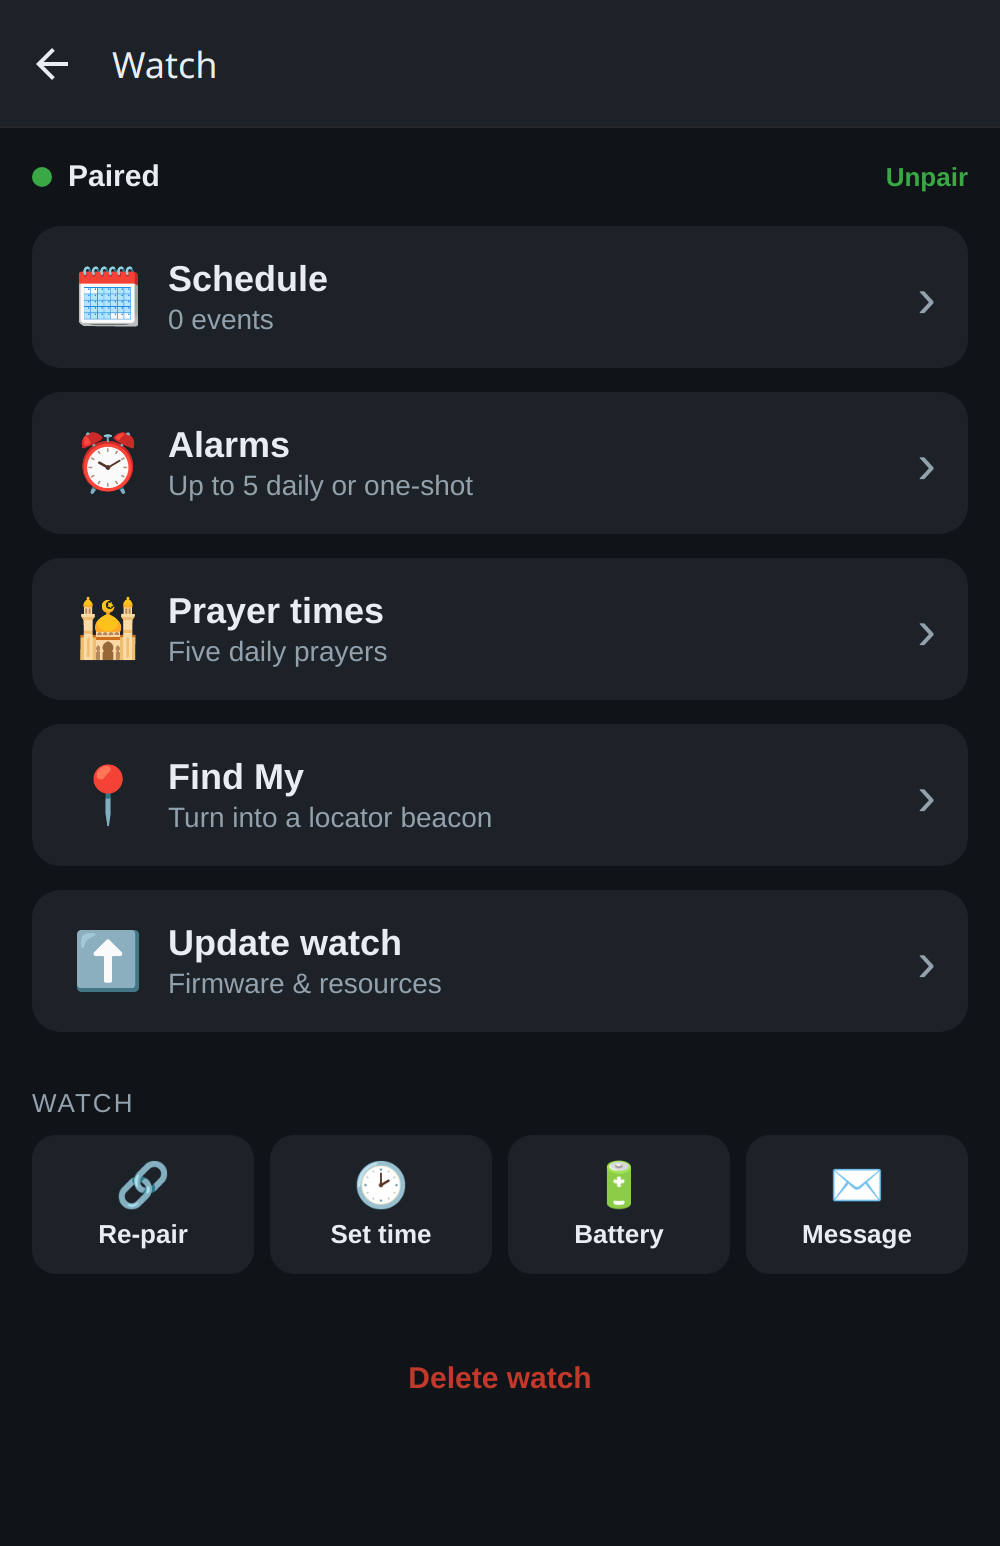
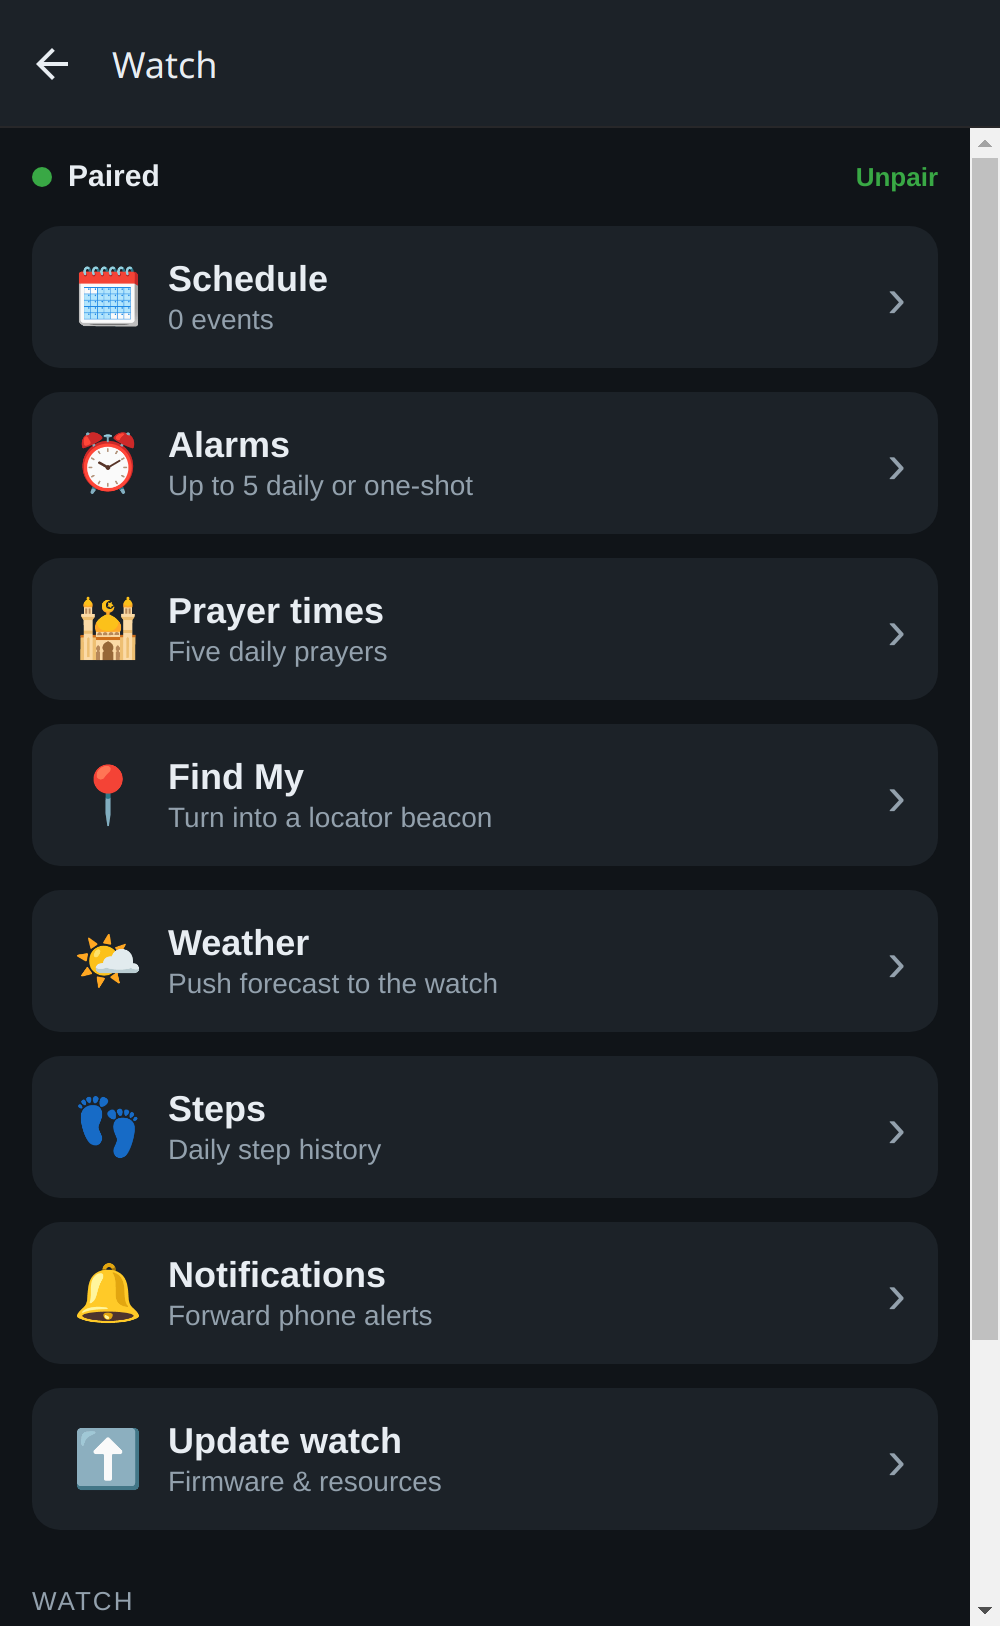
docs: update feature guide for weather, steps, forwarding + music
The guide was four features behind. Adds/updates:
- Weather + Step history as flagship features (watch app + companion screen
  each): Open-Meteo forecast push, and the 14-day on-phone step chart with the
  yesterday backfill.
- Reworks the notifications section into two pages: 'Your phone on your wrist'
  (per-watch notification forwarding + call ring + music control, with the Music
  app showing real now-playing) and the watch-originated pending-alerts queue.
- Refreshes the hub screenshot (now 8 feature rows) and the built-in-app blurbs
  for Steps and Music; updates the Music watch shot to real metadata.
- New assets: watch-weather, companion-weather, companion-steps; updated
  companion-hub, watch-music. Regenerated HTML + PDF (9 -> 11 pages).

All screenshots are live captures (InfiniSim for the watch, the headless web
harness against the sim for the companion), per the guide's convention.

diff --git a/docs/guide/build-feature-guide.py b/docs/guide/build-feature-guide.py
@@ -47,6 +47,18 @@ FLAG = [
      ["Generate a key pair, provision it to the watch, and turn beaconing on (Settings → Find My); nearby iPhones then report its location to Apple's Find My network.",
       "The app pulls the crowd-sourced fixes and plots the watch's location — with its recent trail and accuracy — on a live map.",
       "Export the keys to also look the watch up in your own macless-haystack server."]),
+    ("Weather", "Live forecast pushed to the wrist",
+     ("watch-weather.png", "Weather app → current + 5-day forecast"),
+     ("companion-weather.png", "Companion → Weather"),
+     ["Fetched from Open-Meteo (no account, no API key) for the watch's location — its prayer-times coordinates or the phone's GPS.",
+      "Current temperature, icon, and a five-day forecast reach the Weather app and the watch-face widget, refreshed on every connect.",
+      "The watch keeps it for 24 hours and converts °C/°F itself — real data on the wrist even when the phone is away."]),
+    ("Step history", "Durable daily step tracking on the phone",
+     ("watch-steps.png", "Steps app on the watch"),
+     ("companion-steps.png", "Companion → 14-day step chart"),
+     ["The watch counts steps itself but only holds today and yesterday; the app reads and keeps the durable daily history.",
+      "A 14-day bar chart (today highlighted, goal line) shows the trend — tap any bar for that day's count.",
+      "Reading the watch's yesterday total backfills the previous day, so a late or missed read never undercounts."]),
     ("Firmware &amp; resources update (OTA)", "Update InfiniTime straight from the app",
      ("watch-ota.png", "“Firmware &amp; files” must be enabled"),
      ("companion-update.png", "Companion → Update watch"),
@@ -59,9 +71,9 @@ FLAG = [
 APPS = [
     ("watch-stopwatch.png", "Stopwatch", "Start / lap / reset timing."),
     ("watch-timer.png", "Timer", "Countdown with vibration alert."),
-    ("watch-steps.png", "Steps", "Daily step count vs. goal."),
+    ("watch-steps.png", "Steps", "Daily count + on-phone history."),
     ("watch-heartrate.png", "Heart rate", "On-demand optical HR reading."),
-    ("watch-music.png", "Music", "Remote control for phone playback."),
+    ("watch-music.png", "Music", "Controls the phone's playback."),
     ("watch-navigation.png", "Navigation", "Turn-by-turn arrows from the phone."),
     ("watch-calculator.png", "Calculator", "Basic on-wrist calculator."),
     ("watch-metronome.png", "Metronome", "Adjustable tempo with haptic beat."),
@@ -115,17 +127,17 @@ def feature_card(title, sub, wi, wc, pi, pc, bullets):
       </div>
     </div>"""
 
-# First four features: two per page (Schedule+Alarms, Prayer+Find My).
+# Six features, two per page (Schedule+Alarms, Prayer+Find My, Weather+Steps).
 parts.append('<section class="page"><div class="section-tag">Flagship features</div><h2>What makes this build special</h2>')
 parts.append('<p class="lead">Capabilities the companion drives end-to-end &mdash; shown on the watch and in the app.</p>')
-for i, (title, sub, (wi, wc), (pi, pc), bullets) in enumerate(FLAG[:4]):
+for i, (title, sub, (wi, wc), (pi, pc), bullets) in enumerate(FLAG[:6]):
     parts.append(feature_card(title, sub, wi, wc, pi, pc, bullets))
-    if i == 1:
+    if i in (1, 3):
         parts.append('</section><section class="page">')
 parts.append('</section>')
 
-# Fifth feature (OTA) gets its own deep-dive page.
-t, s, (wi, wc), (pi, pc), bullets = FLAG[4]
+# The OTA feature gets its own deep-dive page.
+t, s, (wi, wc), (pi, pc), bullets = FLAG[6]
 parts.append(f"""
 <section class="page">
   <div class="section-tag">Flagship features</div>
@@ -139,18 +151,37 @@ parts.append(f"""
   </div>
 </section>""")
 
-# NOTIFICATIONS
+# NOTIFICATION FORWARDING + MUSIC (the live phone bridge)
 parts.append(f"""
 <section class="page">
   <div class="section-tag">Notifications &amp; alerts</div>
-  <h2>Notifications that don&rsquo;t get lost</h2>
-  <p class="lead">Two kinds reach the watch: phone notifications forwarded from your phone, and watch-originated alerts (alarm, reminder, prayer) that fire on-wrist.</p>
+  <h2>Your phone on your wrist</h2>
+  <p class="lead">On Android the app keeps a background connection to the watch and mirrors your phone &mdash; notifications, incoming calls, and now-playing music &mdash; all under one per-watch switch.</p>
   <div class="row center gap">
     {watch("watch-notification.png", "A forwarded phone notification")}
-    {watch("watch-pendingalerts.png", "The pending-alerts queue (1 of 2)")}
+    {watch("watch-music.png", "Now-playing pushed to the Music app")}
   </div>
   <div class="note">
-    <b>The pending-alerts queue.</b> Every watch-originated alert &mdash; a multi-alarm going off, a schedule reminder, a prayer-time alert &mdash; lands in one shared queue instead of each app owning a screen that the next alert would trample. Miss one while another is ringing and it still waits for you: the queue holds the most recent alerts (newest first), shows a <b>1 / N</b> counter so you can page through them, and you clear each with <b>OK</b>. Phone notifications (messages, calls) stack separately in the swipe-down notifications list.
+    <b>Notification forwarding, per watch.</b> Turn on <b>Forward notifications</b> for a watch and the alerts from the apps you choose (a searchable allowlist) show up on its wrist; incoming calls ring it with the caller's name. It's <b>per watch on purpose</b> &mdash; forward to your own watch but not the kids'. A grant of Android's Notification Access is all it needs; a foreground service keeps the link alive with the app swiped away.
+  </div>
+  <div class="note">
+    <b>Music control</b> rides the same switch. The watch's Music app shows the current track, artist and progress from whatever's playing on the phone, and its buttons drive the phone back &mdash; play/pause, next/previous, and volume. Change the song on the phone and the wrist follows; skip on the wrist and the phone skips.
+  </div>
+</section>
+""")
+
+# WATCH-ORIGINATED ALERTS
+parts.append(f"""
+<section class="page">
+  <div class="section-tag">Notifications &amp; alerts</div>
+  <h2>Watch alerts that don&rsquo;t get lost</h2>
+  <p class="lead">Separately from forwarded phone notifications, alerts the watch raises itself &mdash; alarms, schedule reminders, prayer times &mdash; share one queue so a new one never tramples the last.</p>
+  <div class="row center gap">
+    {watch("watch-pendingalerts.png", "The pending-alerts queue (1 of 2)")}
+    {watch("watch-schedule.png", "Reminders live on the watch")}
+  </div>
+  <div class="note">
+    <b>The pending-alerts queue.</b> Every watch-originated alert &mdash; a multi-alarm going off, a schedule reminder, a prayer-time alert &mdash; lands in one shared queue instead of each app owning a screen that the next alert would trample. Miss one while another is ringing and it still waits for you: the queue holds the most recent alerts (newest first), shows a <b>1 / N</b> counter so you can page through them, and you clear each with <b>OK</b>.
   </div>
 </section>
 """)
@@ -197,7 +228,7 @@ parts.append(f"""
     {phone("companion-hub.png", "The watch hub")}
   </div>
   <div class="note">
-    <b>From the hub</b> you reach every feature (Schedule, Alarms, Prayer times, Find My, Update) and the quick actions: <b>Set time</b>, read <b>Battery</b>, and send a <b>Message</b> to the watch. Pairing works against a real watch over Bluetooth or against the InfiniTime simulator during development.
+    <b>From the hub</b> you reach every feature &mdash; Schedule, Alarms, Prayer times, Find My, Weather, Steps, Notifications, and Update &mdash; plus the quick actions: <b>Set time</b>, read <b>Battery</b>, and send a <b>Message</b> to the watch. Pairing works against a real watch over Bluetooth or against the InfiniTime simulator during development.
   </div>
 </section>
 """)